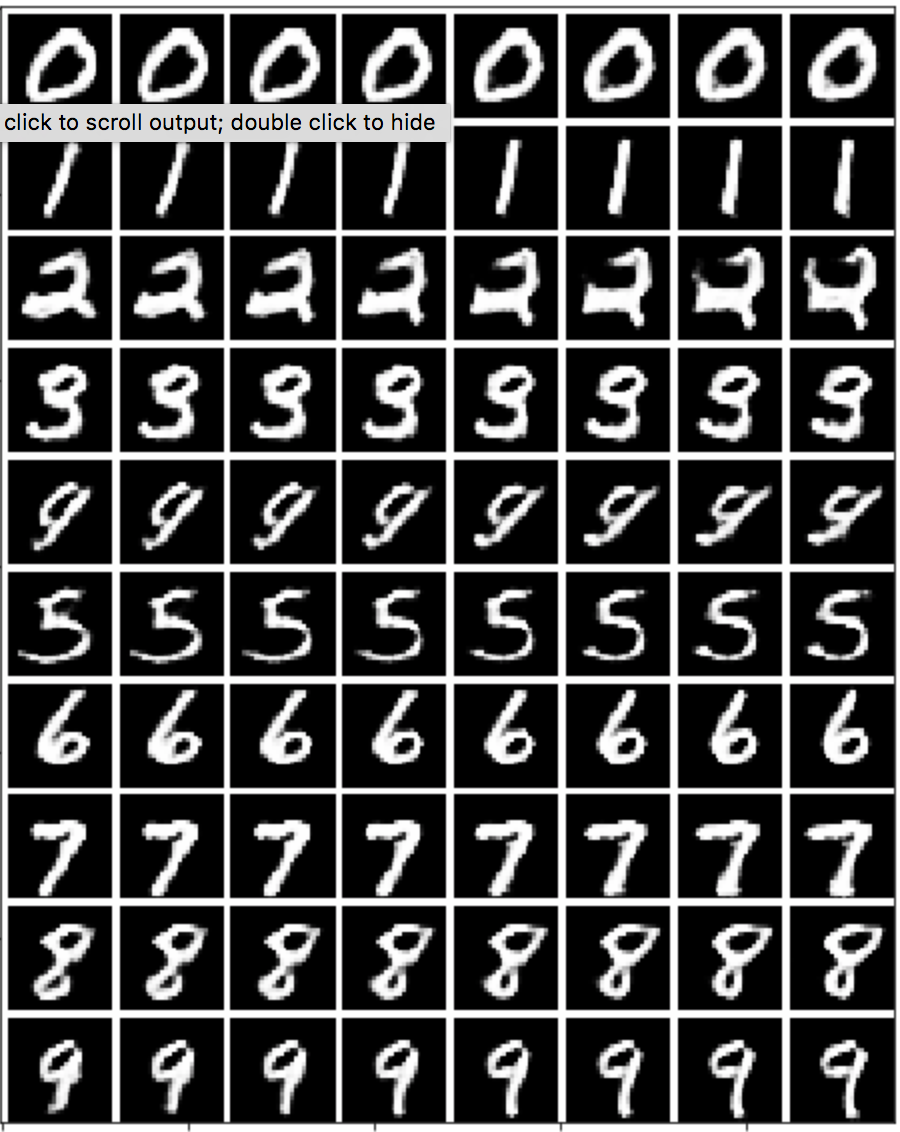
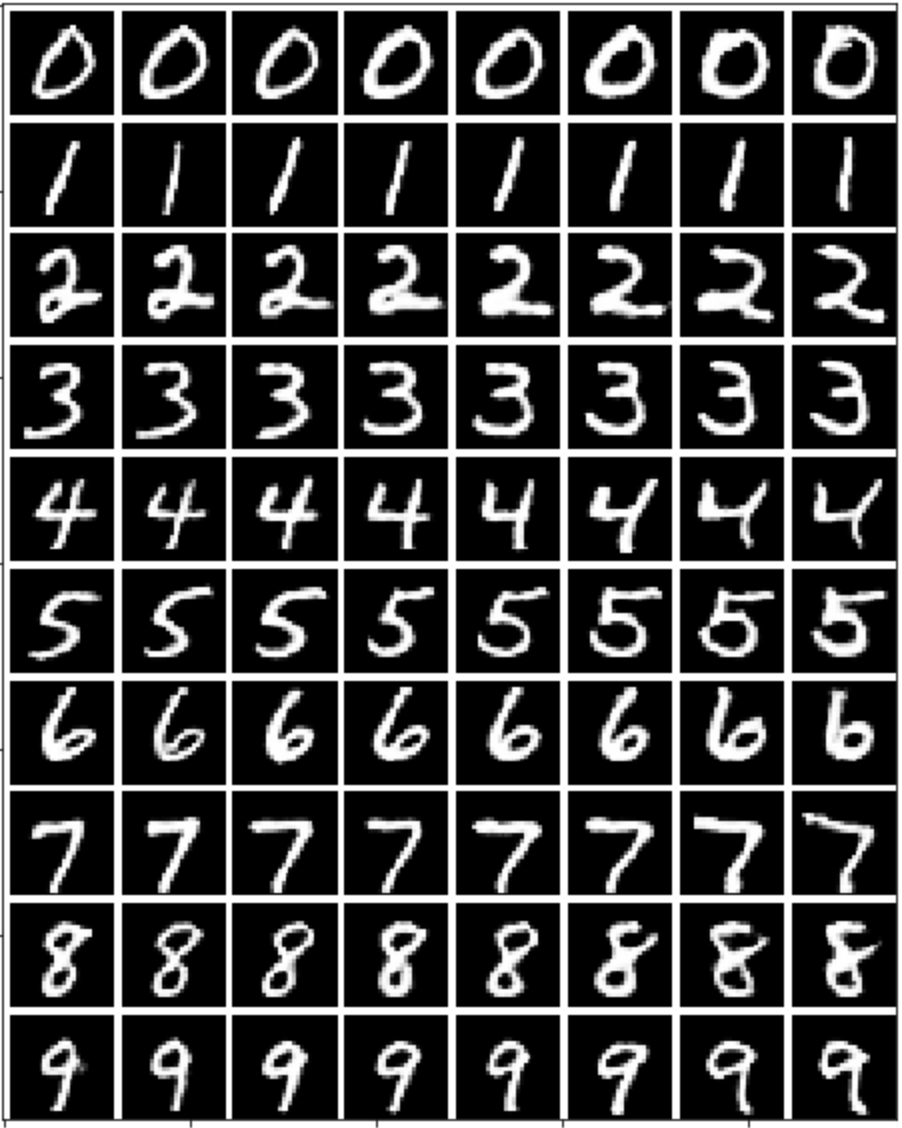
retrain InfoGAN

Changed region(s): [[0.0, 0.0, 0.9956, 1.0]]

diff --git a/InfoGAN/run_InfoGAN.py b/InfoGAN/run_InfoGAN.py
@@ -122,7 +122,7 @@ def train_InfoGAN(InfoGAN_Dis, InfoGAN_Gen, D_criterion, G_criterion,
                     L_discrete -= condi_entro
             L_discrete /= n_discrete
 
-            Q_cx_conti = outputs[:, 1:(1 + n_conti)]
+            Q_cx_conti = outputs[batch_size:, 1:(1 + n_conti)]
             L_conti = torch.mean(-(((Q_cx_conti - mean) / std) ** 2))
 
             # Update Discriminator
